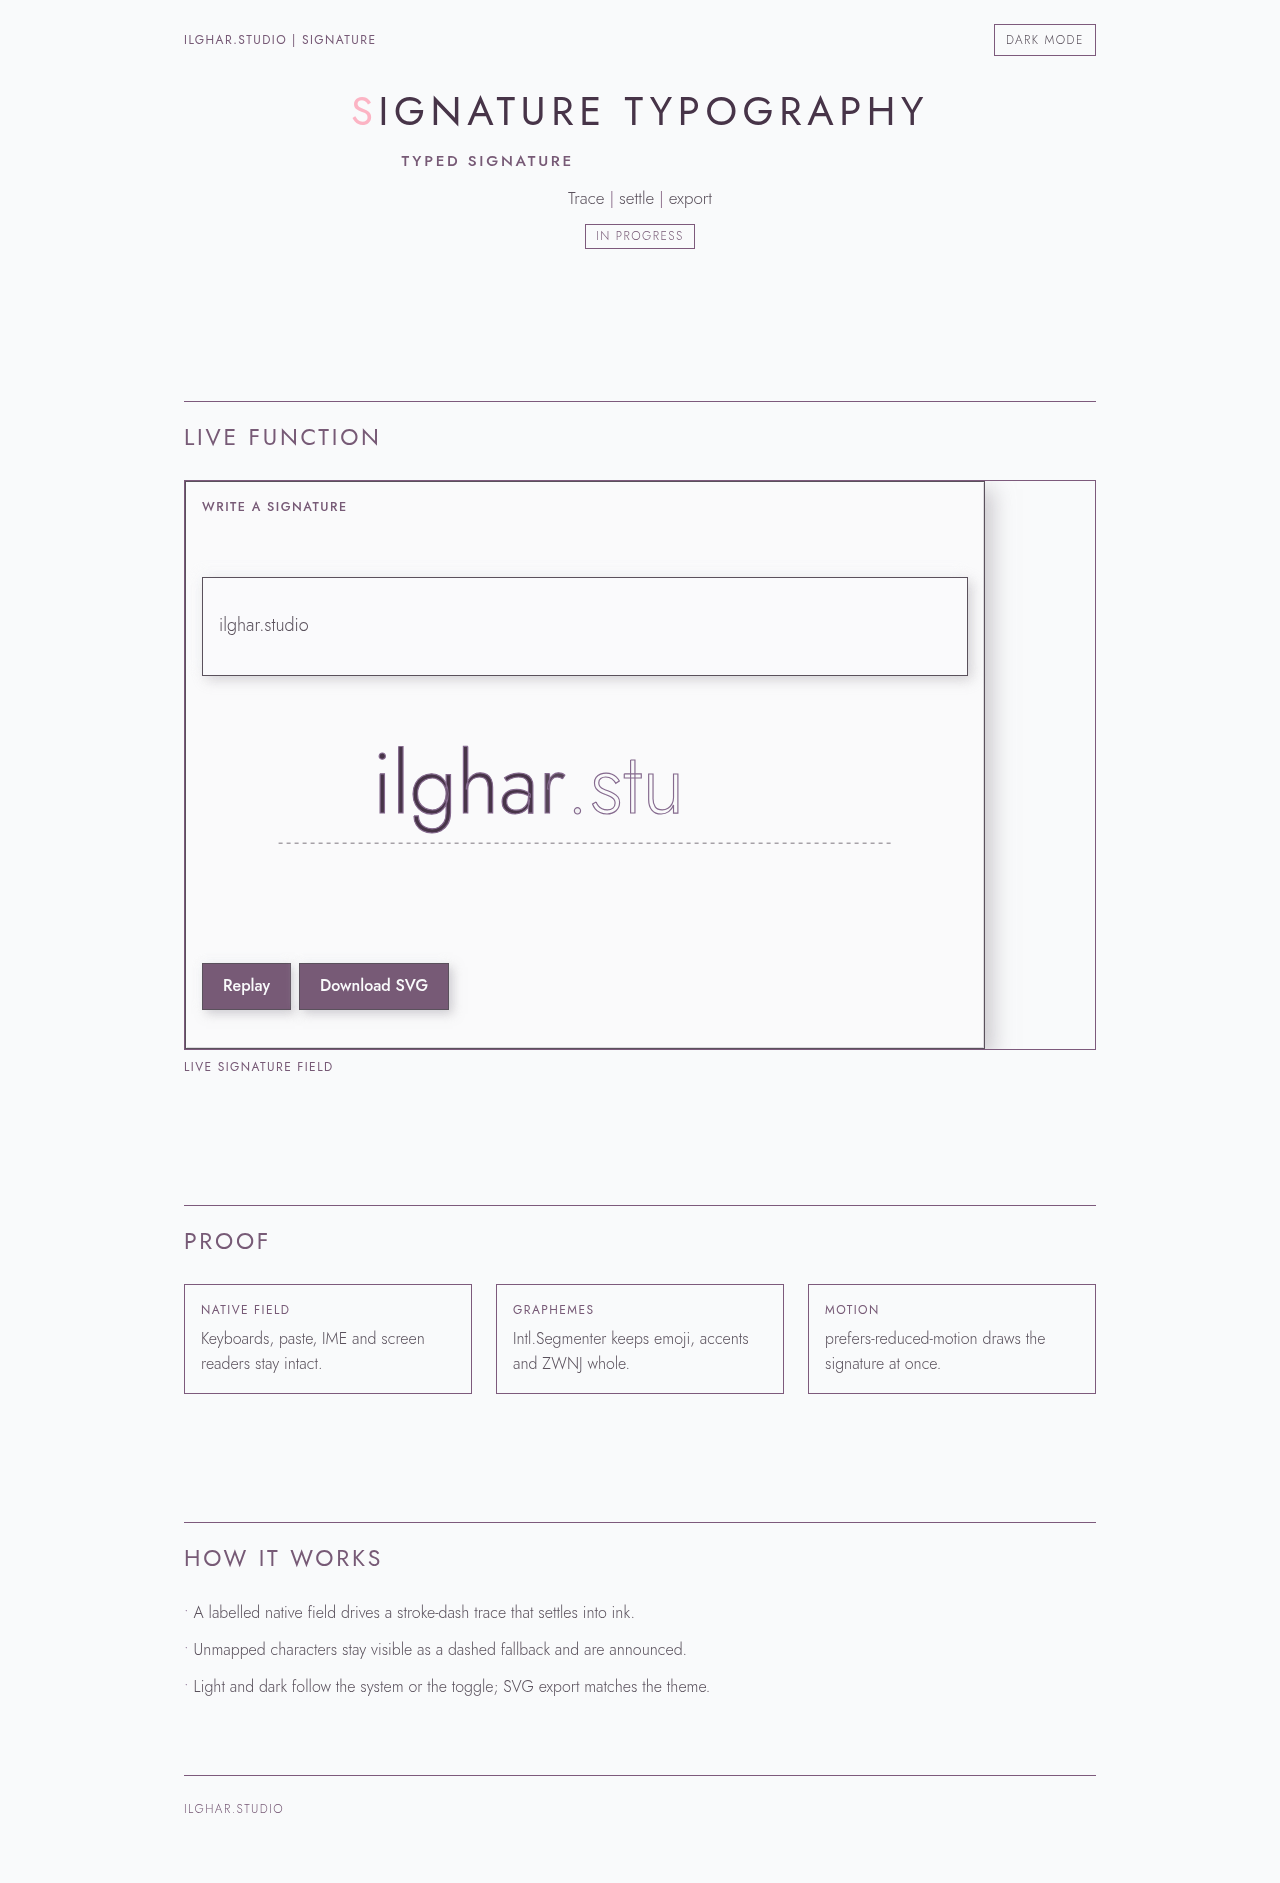
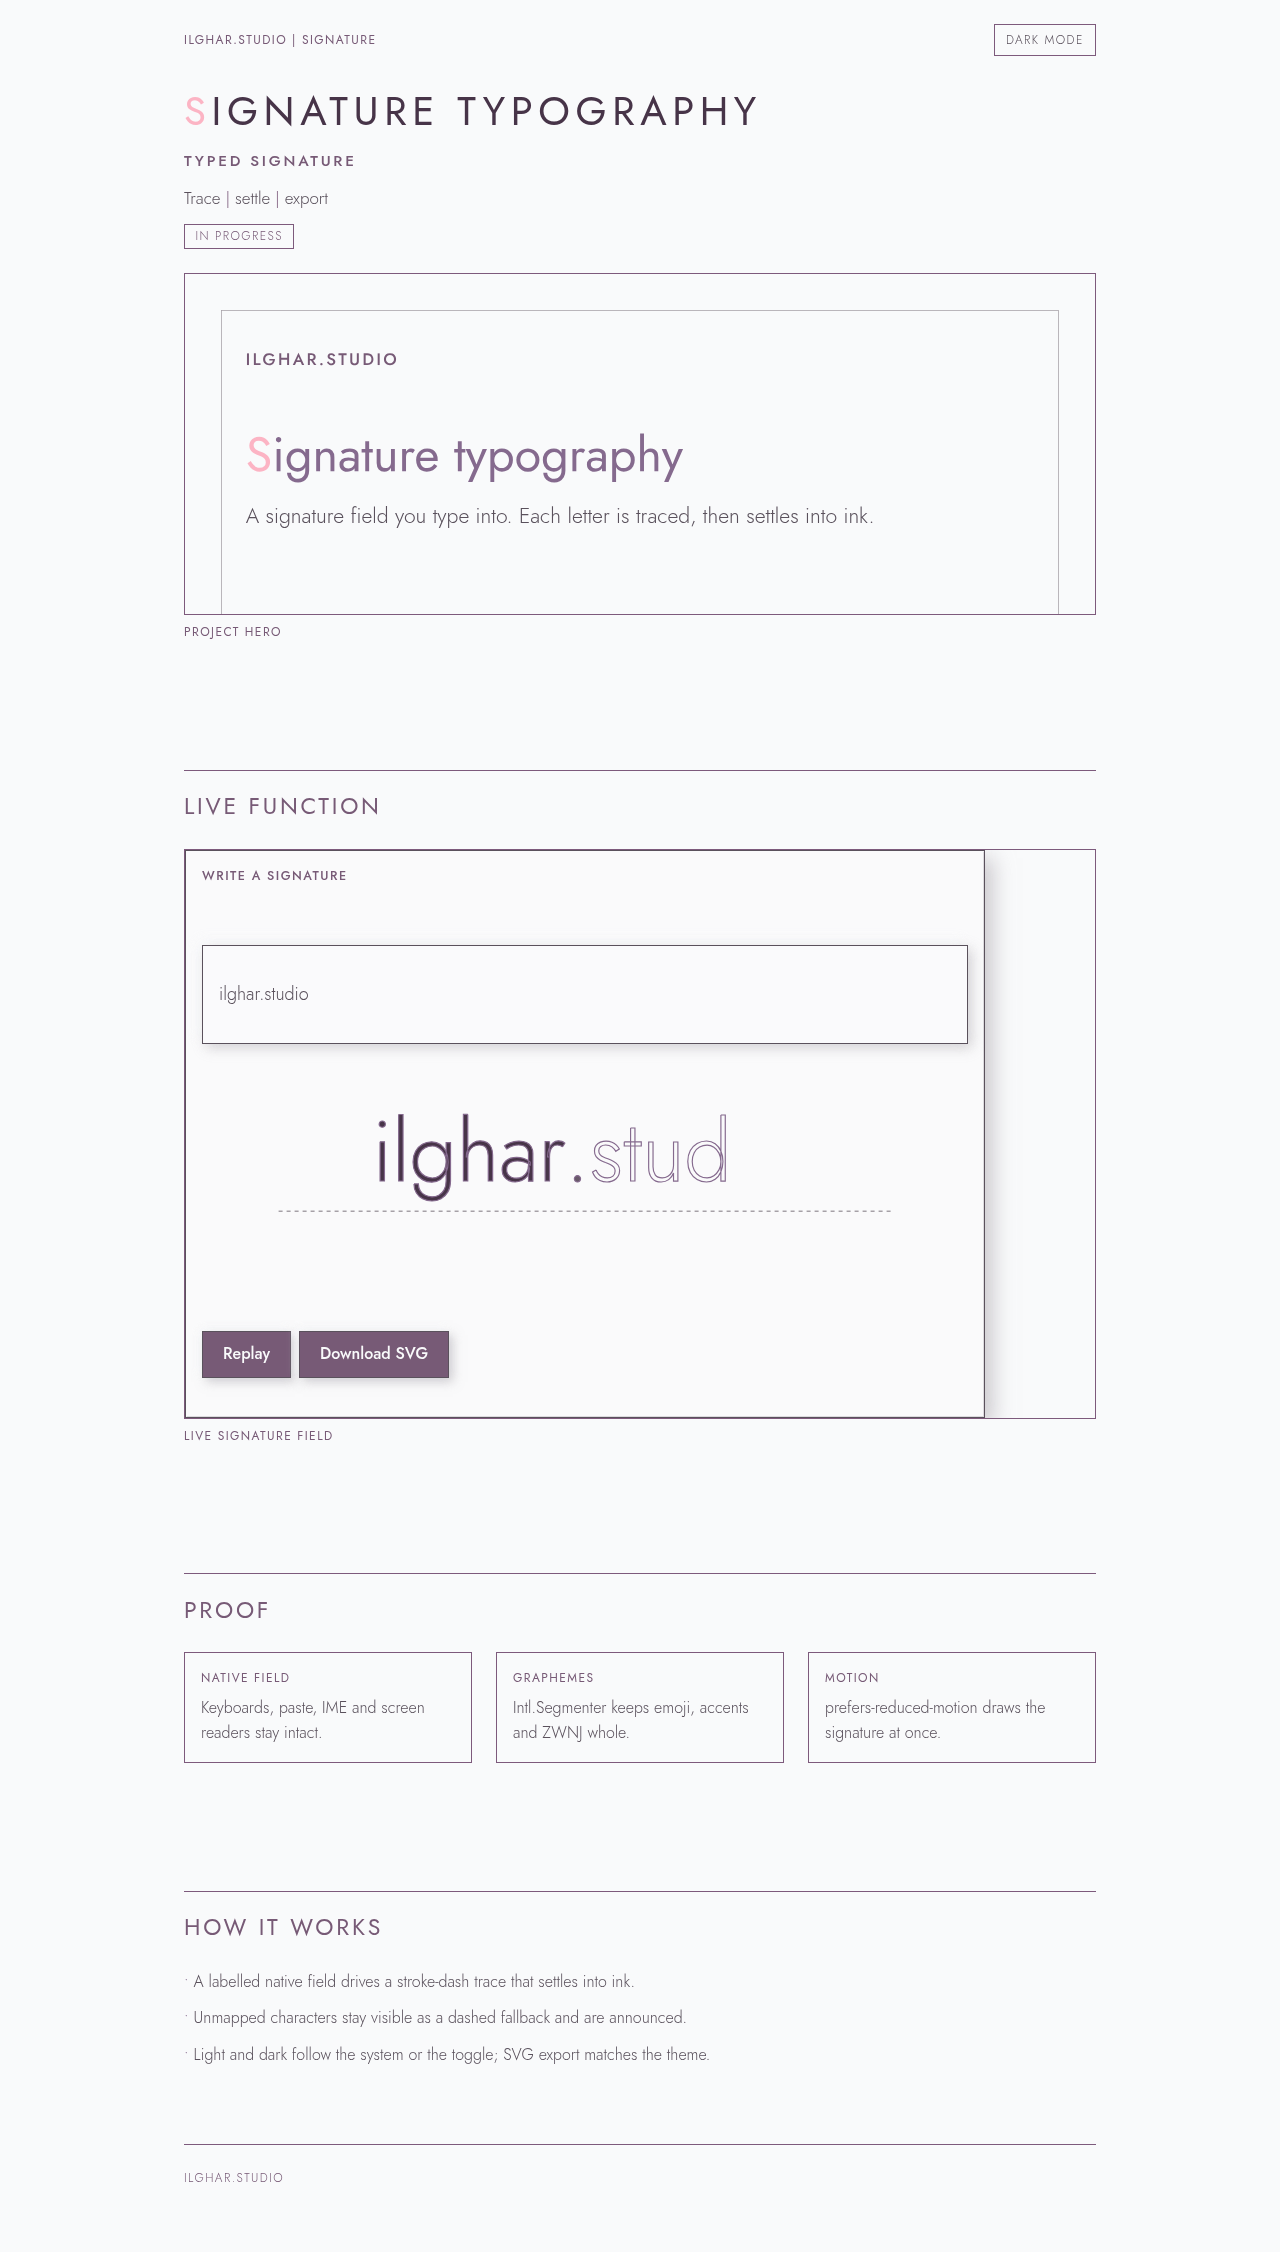
fix(pages): left-align header, add repo title-card hero, stack buttons at 390
Wire docs/hero/hero-*.svg into site/hero in an 8:3 frame. Left-align
.hero. At ≤600px let the live frame auto-height and keep Replay /
Download below the signature preview (no overlay).

diff --git a/site/index.html b/site/index.html
@@ -12,6 +12,16 @@
 @font-face{font-family:Jost;font-style:normal;font-weight:500;font-display:swap;src:url("fonts/jost-latin-500-normal.woff2") format("woff2")}
 #demo{width:100%}
 .frame.r1610 .live{padding:16px;min-height:100%}
+
+/* At ≤600px let the live demo stack so Replay/Download sit below the SVG */
+@media (max-width:600px){
+  .frame.r1610:has(#demo),.frame.r1610:has(.live){aspect-ratio:auto;min-height:0}
+  .frame.r1610 .live{height:auto!important;min-height:0;overflow:visible;display:block;padding:12px}
+  .frame.r1610 .live .sig{max-width:none;height:auto;padding:12px;gap:10px}
+  .frame.r1610 .live .sig__svg{width:100%;height:auto;max-height:none}
+  .frame.r1610 .live .sig__actions{display:flex;flex-wrap:wrap;gap:8px;margin-top:4px}
+}
+.frame.r1610 .live .sig{max-width:none;width:100%;box-sizing:border-box}
 </style>
 </head>
 <body>
@@ -27,6 +37,16 @@
     <p class="sub"><span>Trace</span><span>settle</span><span>export</span></p>
     <span class="status">In progress</span>
   </header>
+
+  <figure class="span12">
+    <div class="frame r83">
+      <picture>
+        <source media="(prefers-color-scheme: dark)" srcset="hero/hero-dark.svg">
+        <img src="hero/hero-light.svg" width="1200" height="630" alt="Title card for Signature typography by ilghar.studio.">
+      </picture>
+    </div>
+    <figcaption>Project hero</figcaption>
+  </figure>
   <section class="span12" aria-label="Live function">
     <h2>Live function</h2>
     <figure>

diff --git a/site/pages-shell.css b/site/pages-shell.css
@@ -38,14 +38,14 @@ header.site{display:flex;align-items:center;justify-content:space-between;gap:12
   background:transparent;border:1px solid var(--line);border-radius:0;padding:.35rem .7rem;cursor:pointer;
 }
 .theme-toggle:focus-visible,.ilg-theme-toggle:focus-visible{outline:2px solid var(--line);outline-offset:2px}
-.hero{text-align:center;margin:0 0 24px}
+.hero{text-align:left;margin:0 0 24px}
 .hero .name,.hero h1{
   font-size:40px;font-weight:400;letter-spacing:.14em;text-transform:uppercase;color:var(--head);margin:0;
 }
 @media (max-width:600px){.hero .name,.hero h1{font-size:30px}}
 .hero .first,.hero .initial{color:var(--pink)}
 .hero .title{display:block;margin-top:8px;font-weight:500;font-size:.95rem;letter-spacing:.18em;text-transform:uppercase;color:var(--label)}
-.hero .sub{font-size:17px;font-weight:300;color:var(--fg);margin:12px auto 0;max-width:64ch}
+.hero .sub{font-size:17px;font-weight:300;color:var(--fg);margin:12px 0 0;max-width:64ch}
 .hero .sub span+span::before{content:" | ";color:var(--line)}
 .badge,.status{
   display:inline-block;margin-top:12px;border:1px solid var(--line);padding:.15rem .65rem;

diff --git a/site/src/signature.css b/site/src/signature.css
@@ -250,3 +250,13 @@
   .sig { background: var(--sig-panel-solid); }
   .sig__input { background: var(--sig-paper); }
 }
+
+/* narrow: actions below preview (do not overlay the SVG) */
+@media (max-width:600px){
+  .sig{display:flex;flex-direction:column;gap:10px;max-width:none}
+  .sig__svg{order:3;flex:0 0 auto}
+  .sig__label{order:1}
+  .sig__input{order:2}
+  .sig__actions{order:4;position:static;margin-top:4px}
+  .sig__live{order:5}
+}

diff --git a/src/signature.css b/src/signature.css
@@ -250,3 +250,13 @@
   .sig { background: var(--sig-panel-solid); }
   .sig__input { background: var(--sig-paper); }
 }
+
+/* narrow: actions below preview (do not overlay the SVG) */
+@media (max-width:600px){
+  .sig{display:flex;flex-direction:column;gap:10px;max-width:none}
+  .sig__svg{order:3;flex:0 0 auto}
+  .sig__label{order:1}
+  .sig__input{order:2}
+  .sig__actions{order:4;position:static;margin-top:4px}
+  .sig__live{order:5}
+}
